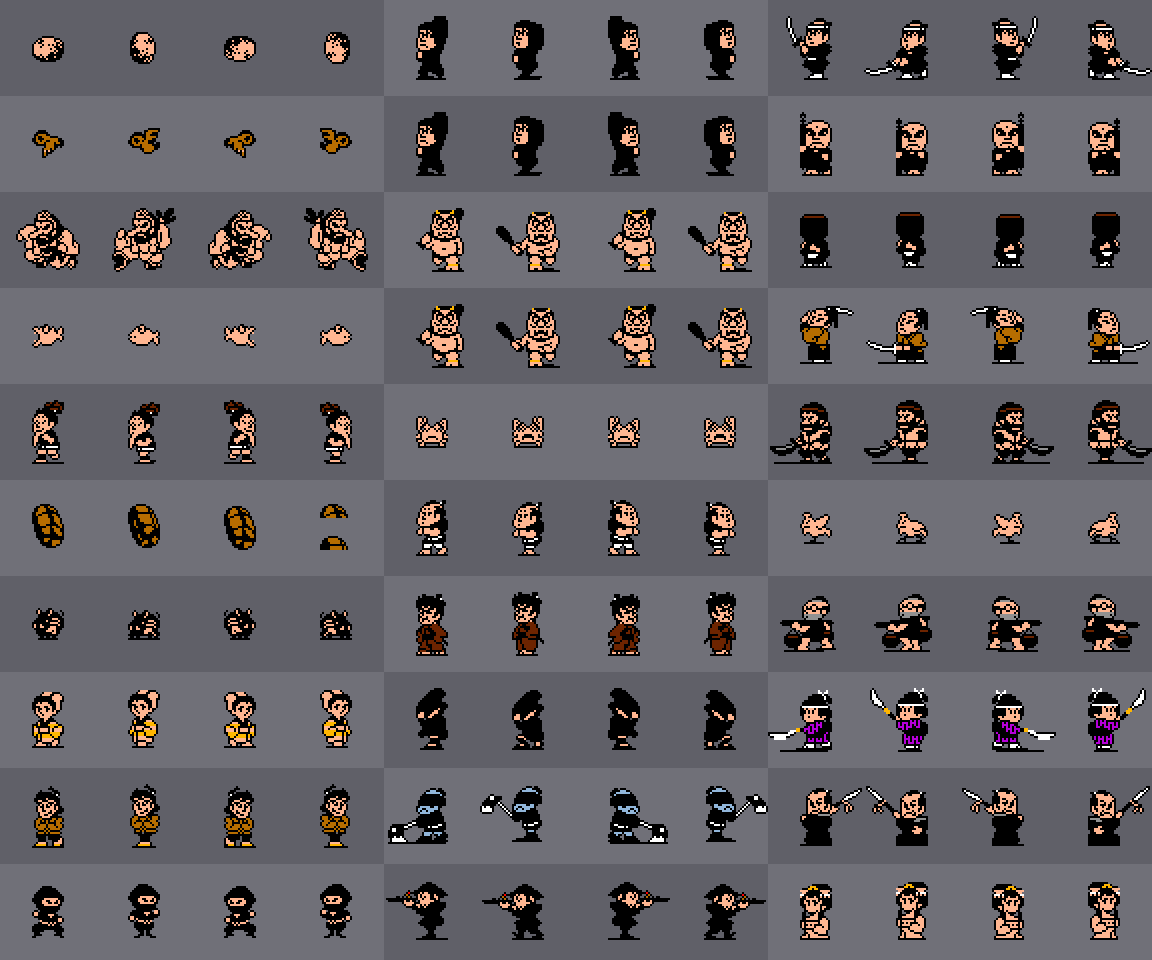
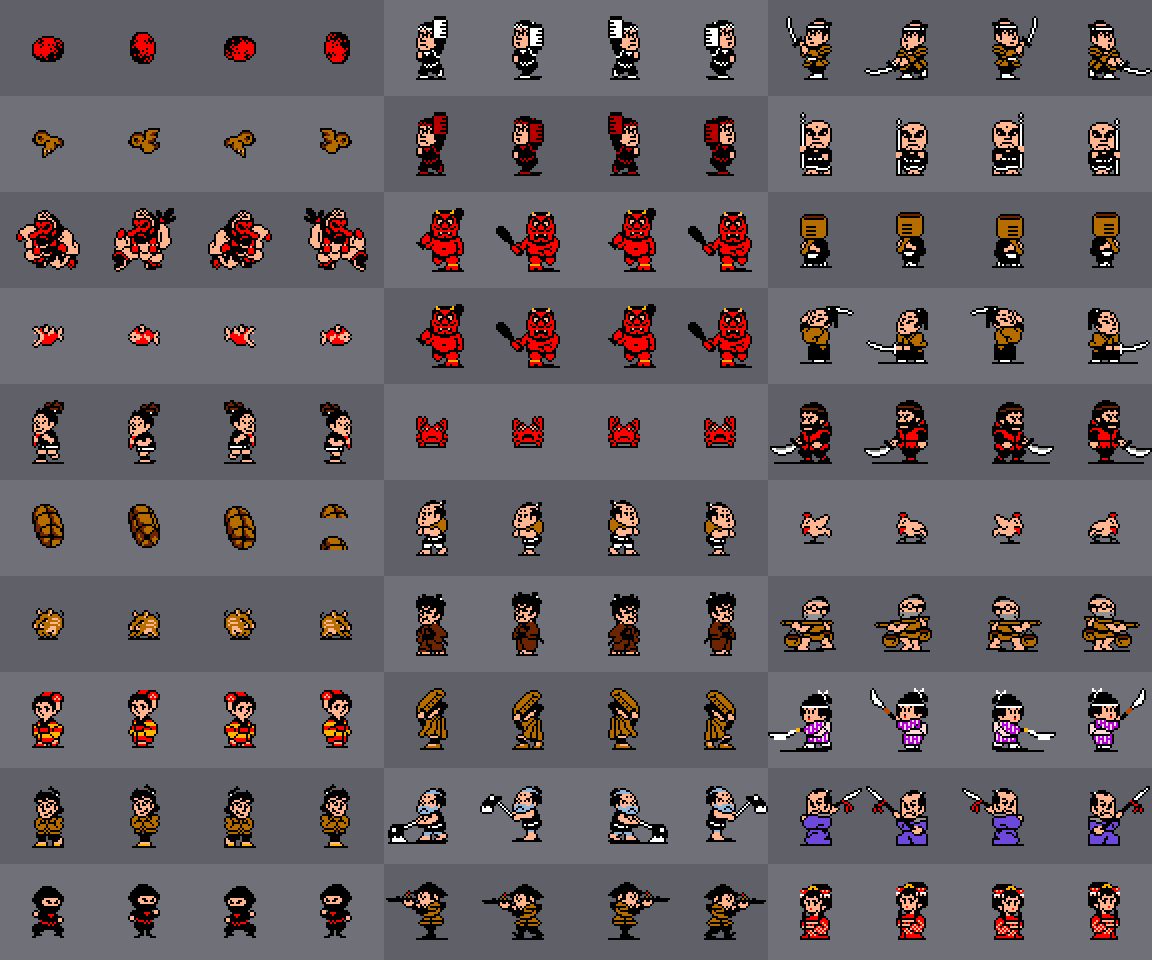
Los sprites con el bit CC se juntan con OR (issue #4)
El pintor de sprites tiraba el bit 0x40 del color: los enemigos que lo usan
(0x42, 0x44, 0x45) salian con dos colores en vez de tres o mas. Ahora se
pinta como el V9938 (y openMSX): un sprite con CC se junta con OR con el sin
CC que lo precede en la linea, y sin ninguno delante no sale. Solo cambia la
hoja de enemigos; jugadores, titulo y Konami salen iguales byte a byte.
Gracias a Nestor Sancho (theNestruo) por el aviso.

diff --git a/tools/titulo.py b/tools/titulo.py
@@ -87,25 +87,40 @@ def rotulo(cart, bancos, hl, vram):
 def sprites(vram, lista, colores, patrones=0xF800):
     """Los sprites de modo 2 del V9938: 16x16, un color por linea, ocho por
     linea como mucho (los de despues no salen) y la y una linea mas abajo.
-    `lista` son (y, x, dibujo) y `colores` los 16 bytes de color de cada uno."""
-    capa = {}
-    por_linea = {}
+    `lista` son (y, x, dibujo) y `colores` los 16 bytes de color de cada uno.
+    Con el bit CC (0x40) del color, el sprite va pegado a los de antes: donde
+    coincide con el sprite sin CC que lo precede (y con los CC de en medio),
+    los colores se juntan con OR; si en la linea no hay ninguno sin CC antes,
+    no sale. Como lo pinta openMSX (SpriteConverter, modo 2)."""
+    en_linea = {}
     for k, (y, x, n) in enumerate(lista):
         if y == 0xD8:
             break
         for fila in range(16):
             yy = (y + 1 + fila) & 0xFF
-            por_linea[yy] = por_linea.get(yy, 0) + 1
-            if por_linea[yy] > 8:
+            linea = en_linea.setdefault(yy, [])
+            if len(linea) >= 8:
                 continue
-            c = colores[k][fila] & 0x0F
-            for mitad in range(2):
-                b = vram.v[patrones + (n & 0xFC) * 8 + mitad * 16 + fila]
-                for bit in range(8):
-                    if b & (0x80 >> bit):
-                        xx = x + mitad * 8 + bit
-                        if xx < 256 and (xx, yy) not in capa:
-                            capa[(xx, yy)] = c
+            a = patrones + (n & 0xFC) * 8 + fila
+            linea.append((x, vram.v[a] << 8 | vram.v[a + 16], colores[k][fila]))
+    capa = {}
+    for yy, linea in en_linea.items():
+        primero = next((i for i, (_, _, c) in enumerate(linea) if not c & 0x40), len(linea))
+        for i in range(len(linea) - 1, primero - 1, -1):
+            x, bits, c = linea[i]
+            if not c & 0x0F:
+                continue
+            for p in range(16):
+                xx = x + p
+                if not bits & (0x8000 >> p) or xx >= 256:
+                    continue
+                color = c & 0x0F
+                for x2, bits2, c2 in linea[i + 1:]:
+                    if not c2 & 0x40:
+                        break
+                    if 0 <= xx - x2 < 16 and bits2 & (0x8000 >> (xx - x2)):
+                        color |= c2 & 0x0F
+                capa[(xx, yy)] = color
     return capa
 
 
